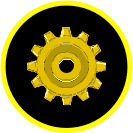
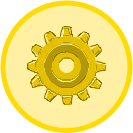
frontend redesign with custom artwork

diff --git a/frontend/src/components/Card.vue b/frontend/src/components/Card.vue
@@ -1,14 +1,21 @@
 <!-- Component representing a single Blueprint card -->
 <template>
-  <div :class="{ disabled: isDisabled }" class="card blueprintcard" v-tooltip="card.recipe">
+  <div
+    :class="{ disabled: isDisabled }"
+    class="card blueprintcard"
+    v-tooltip="card.recipe"
+    :style="{ backgroundImage: `url(/${this.card.type}.png)` }"
+  >
     <p class="name" :style="{ backgroundColor: color }">{{ card.name }}</p>
-    🔩{{ card.cost_metal }}{{ card.name == 'Megalith' ? '*' : '' }} ⚡{{ card.cost_energy }}
-    <div class="recipe-container">
+    <div class="recipe-container card-box">
       <p class="recipe">{{ card.short_recipe }}</p>
     </div>
-    <div class="icon-row">
-      <img class="tool-label" :src="getToolImage(card.tool)" :alt="card.tool" />
-      <img class="icon" src="/prestige.png" />{{ card.prestige !== null ? card.prestige : '*' }}
+    <div class="icon-row icon-text">
+      <img class="icon spacing" :src="getToolImage(card.tool)" :alt="card.tool" />
+      <img class="icon" src="/prestige.png" />
+      <p class="spacing">{{ card.prestige !== null ? card.prestige : '*' }}</p>
+      <p>🔩{{ card.cost_metal }}{{ card.name == 'Megalith' ? '*' : '' }}</p>
+      <p>⚡{{ card.cost_energy }}</p>
     </div>
   </div>
 </template>
@@ -55,9 +62,8 @@ export default {
 
 <style scoped>
 .blueprintcard {
-  background: #aec9e0;
-  padding-left: 0px;
-  padding-right: 0px;
+  padding-top: 5px;
+  padding-bottom: 5px;
   display: flex;
   flex-direction: column;
   justify-content: space-between;
@@ -65,7 +71,11 @@ export default {
 }
 
 .disabled {
-  background: gray;
+  opacity: 0.5;
+}
+
+.cost {
+  background-color: white;
 }
 
 .name {
@@ -73,13 +83,7 @@ export default {
   color: white;
 }
 
-.tool-label {
-  width: 20px;
-  text-align: center;
-  margin-right: 5px;
-}
-
-.recipe-container {
-  width: 90%;
+.spacing {
+  margin-right: 3px;
 }
 </style>

diff --git a/frontend/src/components/ContractorCard.vue b/frontend/src/components/ContractorCard.vue
@@ -1,9 +1,13 @@
 <!-- Component representing a single Contractor card -->
 <template>
-  <div class="card contractorcard" v-tooltip="card.recipe">
+  <div class="card contractorcard" v-tooltip="card.recipe" :style="{ backgroundImage: backgroundImagePath }">
     <p class="name">{{ card.name }}</p>
-    <p class="recipe">{{ card.short_recipe }}</p>
-    <p class="cost-label" style="display: inline-block">⚡{{ card.cost_energy }}</p>
+    <div class="recipe-container card-box">
+      <p class="recipe">{{ card.short_recipe }}</p>
+    </div>
+    <div class="cost-label">
+      <p style="font-weight: bold">⚡{{ card.cost_energy }}</p>
+    </div>
   </div>
 </template>
 
@@ -15,12 +19,17 @@ export default {
       required: true,
     },
   },
+  computed: {
+    backgroundImagePath() {
+      let imageName = this.card.name.toLowerCase().replace(/\s+/g, '_')
+      return `url(/${imageName}.png)`
+    },
+  },
 }
 </script>
 
 <style scoped>
 .contractorcard {
-  background: #ffd042;
   display: flex;
   flex-direction: column;
   justify-content: space-between;
@@ -29,14 +38,17 @@ export default {
 
 .name {
   width: 100%;
-  background-color: #d6e2e8;
-  border-radius: 5px;
+  color: white;
+  font-weight: bold;
 }
 
 .cost-label {
-  background-color: #282a32;
-  color: white;
+  width: 100%;
+  text-align: left;
+  color: black;
+  font-weight: bold;
   border-radius: 5px;
-  padding: 2px;
+  padding-left: 5px;
+  padding-bottom: 1px;
 }
 </style>

diff --git a/frontend/src/assets/main.css b/frontend/src/assets/main.css
@@ -13,11 +13,11 @@ body {
   background: #e8e8e8;
   line-height: 1.6;
   font-family:
+    Roboto,
     Inter,
     -apple-system,
     BlinkMacSystemFont,
     'Segoe UI',
-    Roboto,
     Oxygen,
     Ubuntu,
     Cantarell,
@@ -39,7 +39,6 @@ button {
   display: flex;
   flex-direction: column;
   min-height: 100vh;
-  font-family: Arial, sans-serif;
   color: black;
 }
 
@@ -74,15 +73,15 @@ button {
 
 .valid-div,
 .valid-div-hover:hover {
-  box-shadow: inset 0 0 5px rgba(0, 255, 0, 0.8);
+  box-shadow: 0 0 5px rgba(0, 255, 0, 0.8);
 }
 
 .invalid-div-hover:hover {
-  box-shadow: inset 0 0 5px rgba(255, 0, 0, 0.8);
+  box-shadow: 0 0 5px rgba(255, 0, 0, 0.8);
 }
 
 .selected-div {
-  box-shadow: inset 0 0 5px rgba(0, 0, 255, 0.8);
+  box-shadow: 0 0 5px rgba(0, 0, 255, 0.8);
 }
 
 .card-select-area {
@@ -115,6 +114,11 @@ button {
 .icon-row {
   display: flex;
   align-items: center;
+}
+
+.icon-text {
+  color: white;
+  font-size: 13px;
 }
 
 /**

diff --git a/frontend/src/assets/cards.css b/frontend/src/assets/cards.css
@@ -1,16 +1,26 @@
 .card {
   margin: 5px;
-  padding: 5px;
   border-radius: 4px;
   width: 110px;
   height: 160px;
   text-align: center;
   cursor: pointer;
+  background-size: cover;
+  background-repeat: no-repeat;
 }
 
 .recipe {
   width: 100%;
-  background-color: #e2eaec;
   padding: 2px;
+}
+
+.recipe-container {
+  width: 90%;
+  opacity: 0.9;
+}
+
+.card-box {
+  background-color: #d6e2e8;
+  border: 1.5px solid black;
   border-radius: 5px;
 }
